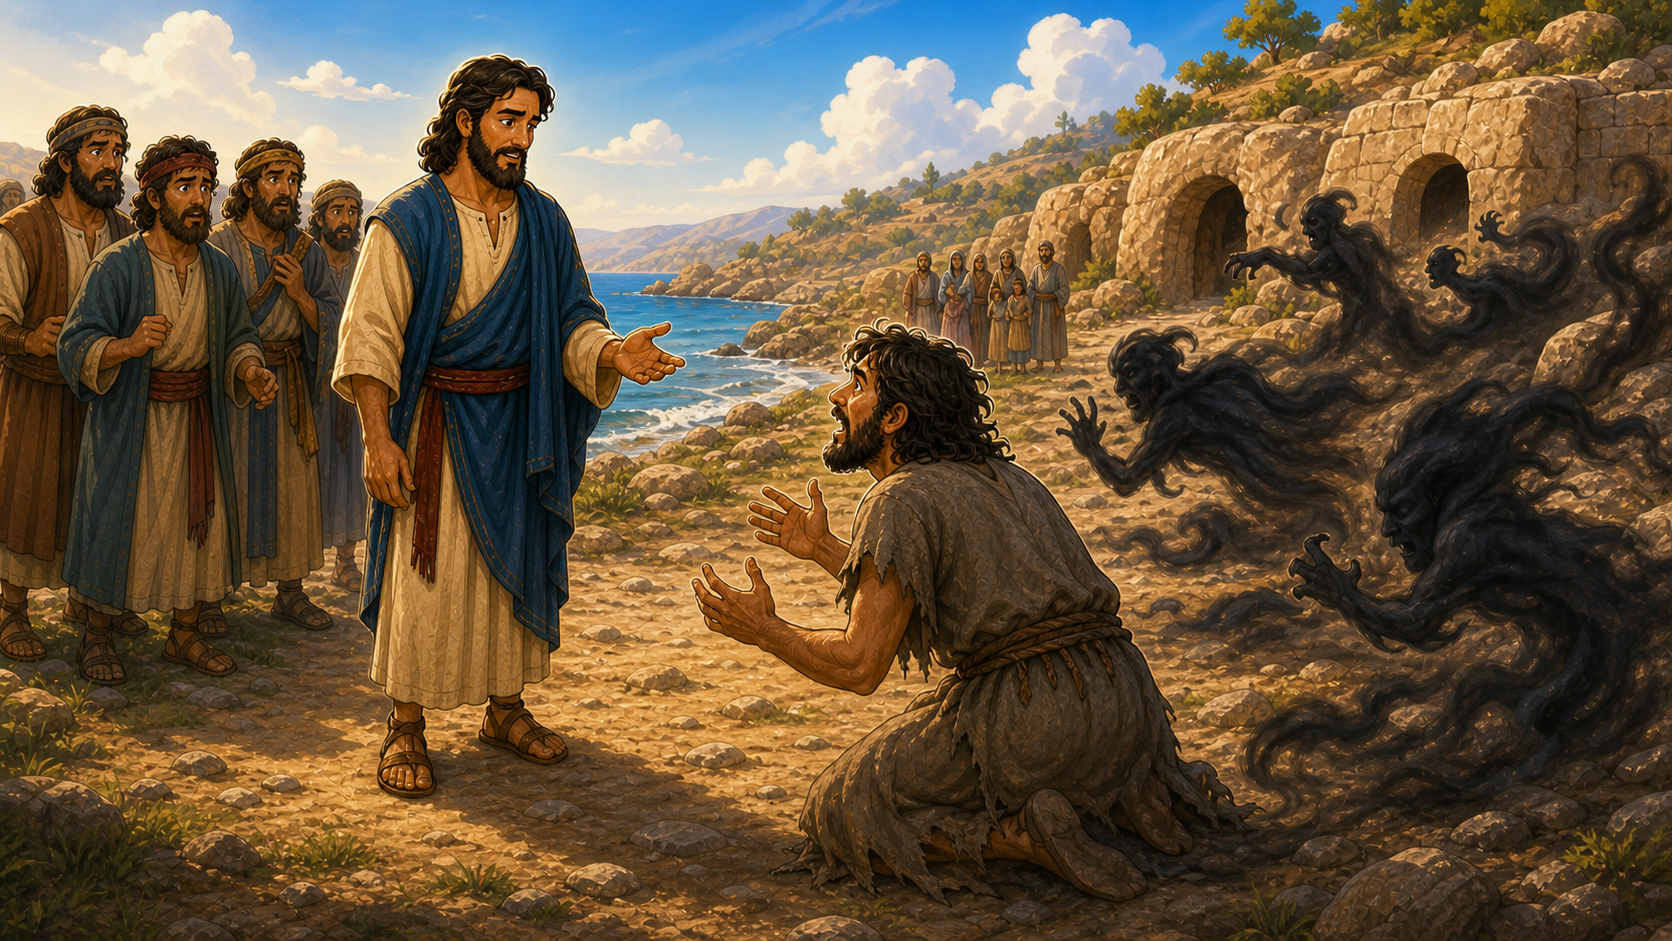
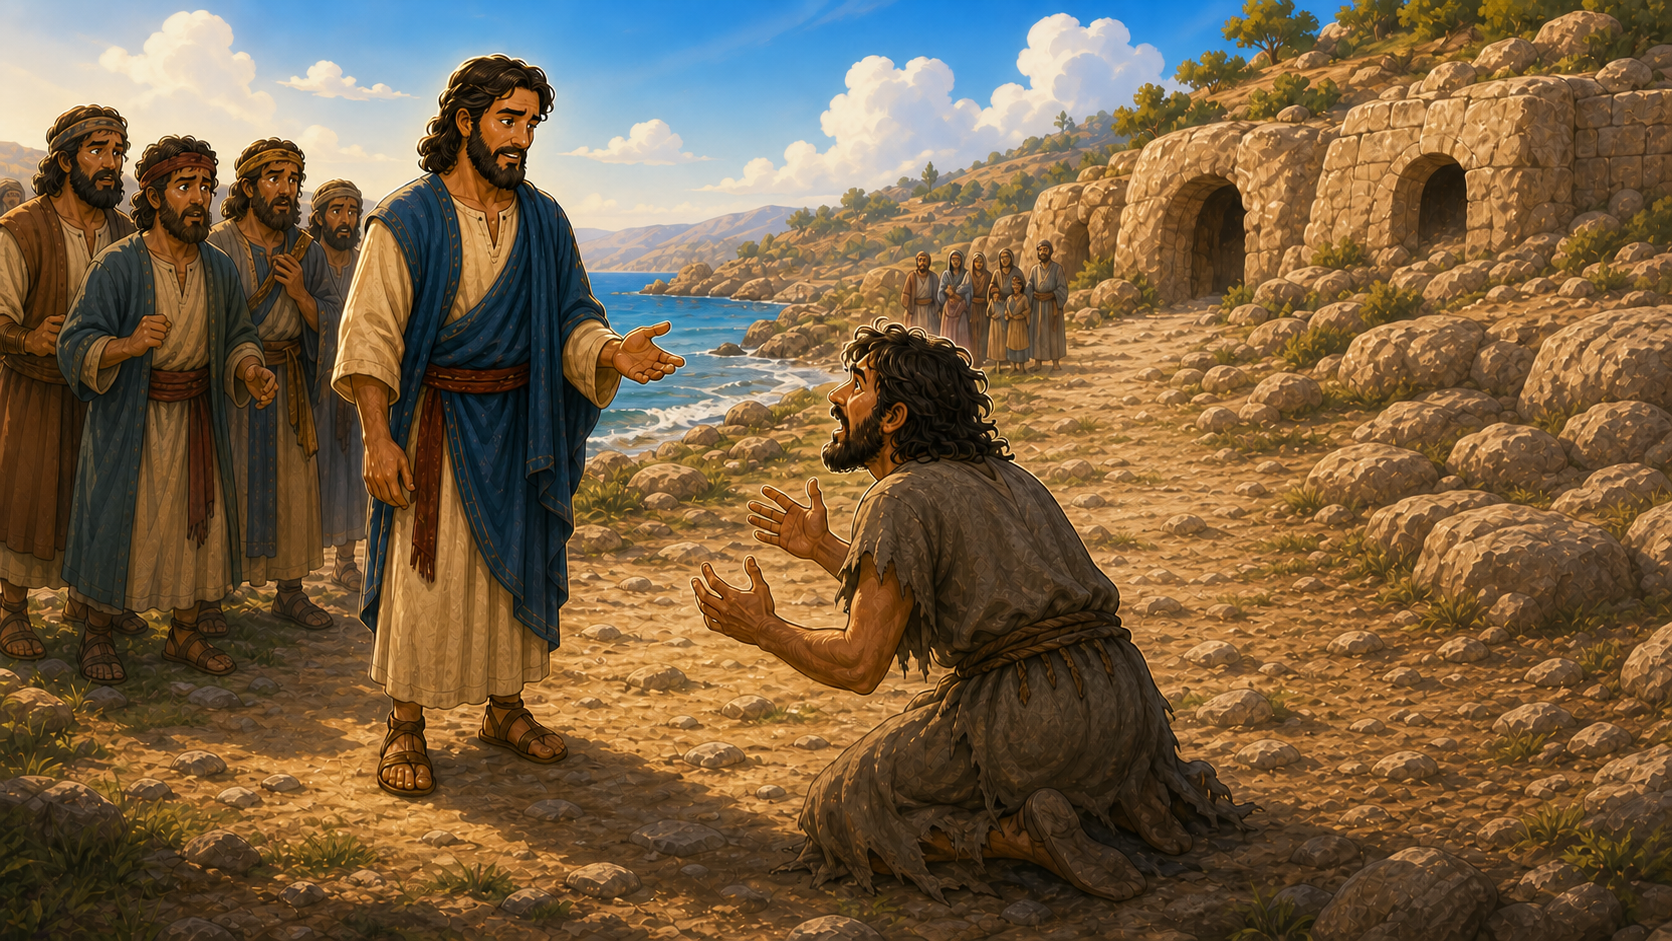
More updates to lesson

diff --git a/Series/Adventures in the Bible/03 The Maniac of Gadara/lesson-outline.md b/Series/Adventures in the Bible/03 The Maniac of Gadara/lesson-outline.md
@@ -1,13 +1,5 @@
 # From Tombs To Testimony
 
-## Lesson Brief
-
-- **Series:** Adventures in the Bible
-- **Subject/Theme:** Jesus has compassion and power to rescue and change a ruined life.
-- **Bible Focus:** Jesus meets the demon-possessed man of Gadara, delivers him, changes him, and sends him home to tell others what the Lord had done.
-- **Main Passage:** Mark 5:1-20; Luke 8:26-39; Matthew 8:28-34
-- **Main Point:** Jesus can save and change anyone, and a changed life should tell others what He has done.
-
 ## Memory Verse
 
 **Mark 5:19** - "Go home to thy friends, and tell them how great things the Lord hath done for thee, and hath had compassion on thee." This fits because Jesus sent the changed man to tell others about the Lord's mercy.
@@ -16,98 +8,95 @@
 
 **Quick Review From Last Week:** Last week we learned about Jael and Sisera. Sisera trusted in chariots and military strength, but God was greater than the enemy's power. Jael chose the LORD's side when a dangerous moment came to her own tent.
 
-Today's story also shows that God is greater than every enemy. This time the enemy is not a king with chariots. This time we see a man whose life had been destroyed by devils, and we see that Jesus is strong enough and compassionate enough to rescue him.
+Today's story also shows that Christ can rescue us from any condition. This time we see a man whose life had been destroyed by devils, and we see that Jesus is strong enough and compassionate enough to rescue him.
 
-### 1. Buildup: A Man No One Could Help
+### 1. A Man No One Could Help
 
-**Summary/Lesson:** Jesus and His disciples crossed the sea and came into the country of the Gadarenes. Imagine the disciples stepping out of the ship and looking around. This was not a clean, cheerful place where children were playing and families were laughing. Nearby were tombs, caves or places where dead bodies were buried. And out among those tombs lived a man everyone in that area knew about.
+> **Mark 5:1-5**
And they came over unto the other side of the sea, into the country of the Gadarenes. And when he was come out of the ship, immediately there met him out of the tombs a man with an unclean spirit, Who had his dwelling among the tombs; and no man could bind him, no, not with chains: Because that he had been often bound with fetters and chains, and the chains had been plucked asunder by him, and the fetters broken in pieces: neither could any man tame him. And always, night and day, he was in the mountains, and in the tombs, crying, and cutting himself with stones.
 
-Maybe the people in the city warned one another, "Do not go near the tombs." Maybe parents pulled their children close when they had to pass that way. This man did not live in a house anymore. He did not dress like other people. The Bible says he cried day and night and hurt himself with stones. If you walked near those tombs, you might hear him before you ever saw him.
+**Summary/Lesson:** Jesus and His disciples crossed the sea and came into a place called “the country of the Gadarenes”. Imagine the disciples stepping out of the ship and looking around. This was not a clean, cheerful place where children were playing and families were laughing. Nearby were tombs, caves or places where dead bodies were buried. And out among those tombs lived a man that everyone in that area knew about.
 
-The people had tried to stop him. They put chains and fetters on him, but he broke them. Strong men may have held the chains. Families may have watched from far away, hoping this time it would work. But every time, the chains failed. No one could tame him. No one could calm him. No one could make him safe. This is where the story builds: if chains could not hold him, people could not help him, and he could not help himself, what could possibly happen when Jesus stepped onto that shore?
+He could be heard all throughout town, screaming and yelling. He was known for attacking people as they walked by and drew fear in the heart of anyone who saw or heard him. 
 
-**Main Passage:** Mark 5:1-5; Luke 8:26-29; Matthew 8:28
+The people in the city warned one another, "Do not go near the tombs." Parents pulled their children close when they had to pass that way. This man did not live in a house. He did not dress like other people. The Bible says he cried day and night and cut himself with stones. If you walked near those tombs, you would hear a terrifying scream and see someone who barely even looked like a man.
 
-**Practical Application for Children:** This man was in a terrible place, but when Jesus came, he went to Jesus. Children can go to Jesus too. The man in the tombs needed Jesus, and so do we.
+The people had tried to stop him. They put chains and fetters on him, but he broke them. Strong men may have held the chains. Families may have watched from far away, hoping this time it would work. But every time, the he broke the chains. No one could tame him. No one could calm him. No one could make him safe. He was a menace to all the people in that area.
 
-When a child is hurting, sad, angry, scared, lonely, or confused, the first and best Person to run to is Jesus. You can talk to Jesus in prayer. You can tell Him exactly what is wrong. You can ask Him for help, comfort, wisdom, forgiveness, and strength to do right. Jesus does not push away hurting children. He cares about them.
+**Practical Application for Children:** There are many people in this world who are hurting. Many people like this man. Maybe someone hurt them, maybe they hurt themselves. It doesn’t really matter what happened to them, but they are mad and bitter and hateful and sad.
 
-### 2. Buildup: The Wrong Road Led Farther From God
+The world is full of people like this. What’s going to happen to them? Many of them will continue in their sad life. Some might die young. But when someone who loves them and cares for them comes along, it can change their life.
 
-**Summary/Lesson:** Now slow the story down and help the children wonder, "How did he get there?" The Bible does not tell us exactly how this man's trouble began, so we should not pretend we know. But we do know that people do not usually start life living in tombs, crying in the night, and frightening everyone around them.
+### 2. The Wrong Road Led Farther From God
 
-Maybe this man had once had a home. Maybe people once knew his name before they only knew him as the dangerous man near the tombs. Maybe he had been hurt by someone, and instead of bringing that hurt to God, he let it turn into anger and bitterness. Maybe he had been lonely, and instead of running to the Lord, he ran to wrong things and wrong choices. Maybe one wrong step led to another, and another, until his life was farther from God than he ever thought it would be.
+**Summary/Lesson:** How did this man get here? The Bible does not tell us exactly how this man's trouble began, but we do know that people do not usually start life living in tombs, crying in the night, and frightening everyone around them. He probably wasn't born there. 
 
-Whatever the beginning was, by the time Jesus met him, the man was miserable. Sin and the devil had not made him happy. They had not made him free. They had taken him away from his home, away from peace, away from the people who cared about him, and out among the tombs. This man did not need stronger chains. He needed Jesus. The children should feel the sadness and the danger here: everybody could see the problem, but nobody had the power to fix it.
+This man probably once had a home. Maybe people once knew his name and we're friends with him before they only knew him as the dangerous man near the tombs. Maybe he had been hurt by someone, and instead of bringing that hurt to God, he let it turn into anger and bitterness. Maybe he had been lonely, and instead of running to the Lord, he ran to wrong things and wrong choices. One wrong step led to another, and another, until his life was consumed by his sin and sadness. The Bible tells us that devils came to live inside of him. That's how bad it had become! 
 
-**Main Passage:** Mark 5:3-5; Luke 8:27, 29
+Whatever the beginning was, by the time Jesus met him, the man was miserable. Sin and Satan had not made him happy. They had not made him free. They had taken him away from his home, away from peace, away from the people who cared about him, and out to live in rocks and among the tombs. 
 
-**Supporting Scriptures:** Proverbs 14:12 warns that a way can seem right but end in death. 
+> **Proverbs 14:12**
There is a way which seemeth right unto a man, but the end thereof are the ways of death.
 
-**Practical Application for Children:** Children will have moments when they feel hurt, left out, embarrassed, angry, or lonely. Those feelings should push them toward God, not away from Him. Pray, tell the truth, ask for help, forgive when God tells you to forgive, and stay away from things that pull your heart farther from the Lord.
+**Practical Application for Children:** Children will have moments when they feel hurt, left out, embarrassed, angry, or lonely. Do not let those feelings push you towards sin and bad choices! When we allow hurt in our life to make us choose wrong things, it leads to destruction.
 
+### 3. Jesus Met Him With Compassion
 
-### 3. Climax: Jesus Met Him With Compassion
+> **Mark 5:6-9**
But when he saw Jesus afar off, he ran and worshipped him, And cried with a loud voice, and said, What have I to do with thee, Jesus, thou Son of the most high God? I adjure thee by God, that thou torment me not. For he said unto him, Come out of the man, thou unclean spirit. And he asked him, What is thy name? And he answered, saying, My name is Legion: for we are many.
 
-**Summary/Lesson:** Then comes the moment the children have been waiting for. Jesus steps onto the shore, and the man comes running out of the tombs. If the people from the city had seen him running, they probably would have backed away. They knew what this man was like. They had heard his cries. They had seen broken chains. They had seen what he could do.
+**Summary/Lesson:** This is how this man had lived for years and years: no relief, no happiness, no joy, no friends, just pain and misery. But then one day everything changed. Jesus steps onto the shore and looks into the man’s eyes. For the first time in his life, the man saw something that changed everything. He saw love, he saw compassion, and someone who wanted to help him.
+
+The man sprinted out of the tombs and ran toward Jesus. If the people from the city had seen him running, they probably would have backed away. They knew what this man was like. They had heard his cries. They had seen broken chains. They had seen what he could do. They probably thought he was going to attack Jesus. 
 
 But Jesus did not run away. Jesus did not look at the disciples and say, "Get back in the boat." Jesus did not treat this man like a problem to avoid. The man fell down before Jesus, and the devils inside him cried out, "Jesus, thou Son of the most high God." The devils knew they were not meeting an ordinary man. They were face to face with the Son of God.
 
-Now the story gets even more intense. The man had scared everyone else, but the devils inside the man were scared of Jesus. They cried, "I adjure thee by God, that thou torment me not." Luke says they begged Jesus that He would not command them to go out into the deep. Think about that: the people had been afraid of this man, but the devils were afraid of Christ. They were not arguing with Jesus like they were just as strong as Him. They were begging because they knew Jesus had authority over them.
+Thing were different here. For all his life, this man had scared everyone else, but now the devils inside him were scared of Jesus. They cried, "torment me not." The Bible says they begged Jesus that He would not command them to go out into the deep. Think about that: the people had been afraid of this man, but the devils were afraid of Christ. They were not arguing with Jesus like they were just as strong as Him. They were begging because they knew Jesus had authority over them.
 
-At this moment, the children should be wondering, "What is Jesus going to do?" The chains had failed. The people had failed. The man could not fix himself. Even the devils knew they could not win against Jesus. Everything in the story is pointing to one truth: the only hope for this man is the love, compassion, and power of Christ.
+The chains had failed. The people had failed. The man could not fix himself. Even the devils knew they could not win against Jesus. Everything in the story is pointing to one truth: the only hope for this man is the love, compassion, and power of Christ.
 
-This is where the story begins to turn. Everyone else had seen a dangerous man, a frightening man, a man who made the whole area uncomfortable. Jesus saw a person who needed compassion and deliverance. Jesus loved him, not because he was clean, useful, polite, or impressive, but because he was a person made by God and ruined by sin and Satan. The man everyone else could not help was now standing before the only One who could help him.
+Everyone else saw a dangerous and frightening man, a man who made the whole area scared. Jesus saw a person who needed love. Jesus loved him, not because he was clean, useful, polite, smart, strong, fast, or impressive, but because he was a person made by God and ruined by sin and Satan. The man everyone else could not help was now standing before the only One who could help him.
 
-**Main Passage:** Mark 5:6-9; Luke 8:28-30
+> **Luke 19:10**
For the Son of man is come to seek and to save that which was lost.
 
-**Supporting Scriptures:** Luke 19:10 says Jesus came to seek and to save that which was lost. Matthew 9:36 shows Jesus moved with compassion when He saw people scattered and helpless. John 6:37 says Jesus will not cast out the one who comes to Him. Romans 5:8 says Christ died for us while we were still sinners.
-
-**Practical Application for Children:** Jesus does not wait for people to clean themselves up before they come to Him. Children should never think, "Jesus would not care about me because I have sinned," or, "Jesus would not listen because my life is messy." Jesus is compassionate, and He is able to help.
+**Practical Application for Children:** Jesus does not wait for people to clean themselves up before they come to Him. Children should never think, "Jesus would not care about me because I have sinned," or, "Jesus would not listen because my life is messy." Jesus is compassionate, and He is able to help. He wants you to come to Him no matter how hurt or dirty you are.
 
 **Illustration:** If a child falls into the mud and gets hurt, a loving parent does not say, "Get clean first, then I will help you." The parent runs to help because the child needs help. Jesus came to rescue sinners who could not rescue themselves.
 
-### 4. Climax: Jesus Cast Out The Devils
+### 4. Jesus Cast Out The Devils
+
+> **Mark 5:9-13**
And he asked him, What is thy name? And he answered, saying, My name is Legion: for we are many. And he besought him much that he would not send them away out of the country. Now there was there nigh unto the mountains a great herd of swine feeding. And all the devils besought him, saying, Send us into the swine, that we may enter into them. And forthwith Jesus gave them leave. And the unclean spirits went out, and entered into the swine: and the herd ran violently down a steep place into the sea, (they were about two thousand;) and were choked in the sea.
 
 **Summary/Lesson:** Jesus asked, "What is thy name?" The answer was, "My name is Legion: for we are many." The devils begged Jesus not to send them away into the deep. They asked to enter a herd of swine, and Jesus gave them leave. When the devils entered the swine, the herd ran violently down a steep place into the sea and drowned.
 
-This part of the story shows that the devils were real, cruel, and destructive. But it also shows something much greater: they were under Jesus' authority. The man could not free himself. The people could not free him with chains. But Jesus spoke, and the devils had to obey. Jesus is stronger than Satan, stronger than sin, and stronger than the darkness that destroys lives.
+The man could not free himself. The people could not free him with chains. But Jesus spoke, and the devils had to obey. Jesus is stronger than Satan, stronger than sin, and stronger than the darkness that destroys lives.
 
-**Main Passage:** Mark 5:9-13; Luke 8:30-33; Matthew 8:31-32
+> **Colossians 1:13-14**
Who hath delivered us from the power of darkness, and hath translated us into the kingdom of his dear Son: In whom we have redemption through his blood, even the forgiveness of sins:
 
-**Supporting Scriptures:** Colossians 1:13-14 says God delivers people from the power of darkness through Christ. Hebrews 2:14-15 teaches that Jesus came to destroy the power of the devil and deliver those in bondage. 1 John 3:8 says the Son of God was manifested to destroy the works of the devil. James 4:7 tells us to resist the devil.
-
-**Practical Application for Children:** Children should not play with darkness, occult things, rebellion, or sin as if they are harmless. The devil wants to destroy. But children also do not need to live terrified of Satan. Jesus is greater. The right response is to trust Jesus, obey God's Word, and stay close to the Lord.
+**Practical Application for Children:** The devil wants to destroy but you do not need to live terrified of Satan. Jesus is greater. The right response is to trust Jesus, obey God's Word, and stay close to the Lord.
 
 **Illustration:** In a game, a player may be loud or fast, but when the referee blows the whistle with authority, the play stops. Authority matters. The devils were frightening, but Jesus had authority over them.
 
 ### 5. Resolution: Everyone Saw A Changed Life
 
+> **Mark 5:14-17**
And they that fed the swine fled, and told it in the city, and in the country. And they went out to see what it was that was done. And they come to Jesus, and see him that was possessed with the devil, and had the legion, sitting, and clothed, and in his right mind: and they were afraid. And they that saw it told them how it befell to him that was possessed with the devil, and also concerning the swine. And they began to pray him to depart out of their coasts.
+
 **Summary/Lesson:** The people from the city came out to see what had happened. They found the man who had been possessed with the devil "sitting, and clothed, and in his right mind." Before, he had been wild, lonely, unclothed, crying, and hurting himself. Now he was sitting calmly. He was dressed. He was thinking clearly. He was near Jesus.
 
-Jesus did not just make a small improvement. Jesus changed the man's life. A changed heart showed up in a changed outside. He cleaned himself up, dressed differently, acted differently, and had a different spirit about him. Those changes did not save him, but they showed that Jesus had done a real work in him.
+Jesus did not just make a small improvement. Jesus changed not just the man's life, but the entire region now. The man cleaned himself up, dressed differently, acted differently, and had a different spirit about him. Those changes did not save him, but they showed that Jesus had done a real work in him.
 
-**Main Passage:** Mark 5:14-17; Luke 8:34-37
-
-**Supporting Scriptures:** 2 Corinthians 5:17 says the person in Christ is a new creature. Ephesians 4:22-24 teaches that believers should put off the old man and put on the new man. Galatians 5:22-23 describes the fruit of the Spirit. Titus 3:5 reminds us that salvation is by God's mercy, not by our works.
+> **2 Corinthians 5:17**
Therefore if any man be in Christ, he is a new creature: old things are passed away; behold, all things are become new.
 
 **Practical Application for Children:** When Jesus saves and changes a person, there should be a difference. A saved child will still need to grow, confess sin, and learn obedience, but Jesus changes attitudes, words, friendships, habits, and desires. We are not saved by acting better, but a saved person should want to live differently for the Lord.
 
-**Illustration:** Show a dirty cup or container and then a clean one. The outside difference matters, but the real issue is whether the inside has been cleaned. Jesus changes the heart first, and that change begins to show on the outside.
-
 ### 6. Resolution: Jesus Sent Him Home To Tell
+
+> **Mark 5:18-20**
And when he was come into the ship, he that had been possessed with the devil prayed him that he might be with him. Howbeit Jesus suffered him not, but saith unto him, Go home to thy friends, and tell them how great things the Lord hath done for thee, and hath had compassion on thee. And he departed, and began to publish in Decapolis how great things Jesus had done for him: and all men did marvel.
 
 **Summary/Lesson:** After Jesus changed the man, the man wanted to go with Jesus. That was a good desire. He wanted to stay close to the One who had rescued him. But Jesus gave him a mission: "Go home to thy friends, and tell them how great things the Lord hath done for thee, and hath had compassion on thee."
 
-The man obeyed. He went through Decapolis and published what great things Jesus had done for him. The people who once knew him as the man in the tombs could now hear him tell about Jesus. His life became a testimony. The same mouth that once cried in misery now spoke about the mercy of the Lord.
-
-**Main Passage:** Mark 5:18-20; Luke 8:38-39
-
-**Supporting Scriptures:** Psalm 107:2 says, "Let the redeemed of the LORD say so." Acts 1:8 teaches that God's people are to be witnesses. 1 Peter 3:15 tells believers to be ready to give an answer for their hope. John 4:28-29 shows another changed person going to tell others about Jesus.
+The man obeyed. He went through Decapolis and told everyone what great things Jesus had done for him. The people who once knew him as the man in the tombs could now hear him tell about Jesus. His life became a testimony. The same mouth that once cried in misery now spoke about the mercy of the Lord.
 
 **Practical Application for Children:** Children can tell others what Jesus has done. They can tell a friend Jesus saves. They can invite someone to church. They can say, "Jesus helped me obey," or, "Jesus forgave my sin." A testimony does not have to be fancy. It should be honest and point people to the Lord.
 
-**Illustration:** If a child is lost in a store and someone helps him find his parents, he will tell the story when he gets home. "I was lost, but someone helped me." The changed man could say something greater: "I was ruined, but Jesus had compassion on me."
+**Illustration:** When someone does something great for you, you like to tell others about them
 
 ## Segue Into The Plan Of Salvation
 
@@ -127,34 +116,31 @@ The changed man was told to tell what great things the Lord had done for him. Th
 - When Jesus saves and changes someone, that change should show in the way they live.
 - Tell others what the Lord has done for you.
 
-## Teacher Notes
-
-- Keep the difficult details age-appropriate. Mention that the man hurt himself, but do not dwell on graphic description.
-- Be clear that the Bible does not tell us the man's full backstory. Any discussion of sadness, hurt, anger, or wrong choices should be framed as possible application, not as stated Bible fact.
-- Preserve the story movement: points 1-2 are the buildup, points 3-4 are the climax, and points 5-6 are the resolution.
-- Emphasize that cleaner clothes and better behavior did not save the man. Jesus changed him first, and then the outward difference followed.
-- This lesson gives a natural opportunity to teach children to seek help from God and from safe adults when they are hurting or afraid.
-
 ## Review Questions
 
 1. Easy: Where was the man living when Jesus met him?
 2. Easy: What had people tried to use to bind the man?
-3. Easy: Could the people tame or fix this man?
+3. Easy: Could the people tame, calm, or fix this man?
 4. Easy: Who came to the country of the Gadarenes?
-5. Easy: What did the devils call Jesus?
+5. Easy: Who did the man need more than stronger chains?
 6. Medium: Why should we be careful not to invent a full backstory for this man?
-7. Medium: What are some wrong places people run when they are hurt or angry?
-8. Medium: What should a child do when he is sad, angry, scared, or being hurt?
-9. Medium: Why did Jesus care about this man?
-10. Medium: What name did the devils give when Jesus asked, "What is thy name?"
-11. Medium: What happened when the devils entered the swine?
-12. Medium: What did the people see when they came and found the man after Jesus changed him?
-13. Medium: What three words describe the changed man in Mark 5:15?
-14. Medium: Did cleaner clothes save the man, or did they show that Jesus had changed him?
-15. Medium: What did the changed man want to do after Jesus helped him?
-16. Medium: Where did Jesus tell the man to go?
-17. Medium: What did Jesus tell the man to tell his friends?
-18. Hard: How does this story show that Satan wants to destroy?
-19. Hard: How does this story show that Jesus is stronger than the devil?
-20. Hard: How can a changed life become a testimony to others?
-21. Hard: Why does every person need Jesus to save them from sin?
+7. Medium: What are some wrong places people may run when they are hurt, angry, or lonely?
+8. Medium: Who should children run to first and best when they are hurting, sad, scared, or confused?
+9. Medium: What can children do when they go to Jesus with a hurting heart?
+10. Medium: What did Jesus do when the man came running from the tombs?
+11. Medium: What did the devils call Jesus?
+12. Medium: What did the devils beg Jesus not to do?
+13. Medium: Why were the devils afraid of Jesus?
+14. Medium: What name did the devils give when Jesus asked, "What is thy name?"
+15. Medium: What did the devils ask Jesus to let them enter?
+16. Medium: What happened to the herd of swine?
+17. Medium: What did the people see when they came and found the man after Jesus changed him?
+18. Medium: What three words describe the changed man in Mark 5:15?
+19. Medium: Did cleaner clothes and better behavior save the man, or did they show that Jesus had changed him?
+20. Medium: What did the changed man want to do after Jesus helped him?
+21. Medium: Where did Jesus tell the man to go?
+22. Medium: What did Jesus tell the man to tell his friends?
+23. Hard: How does this story show that sin and the devil destroy instead of help?
+24. Hard: How does this story show both the compassion and the power of Jesus?
+25. Hard: How can a changed life become a testimony to others?
+26. Hard: Why does every person need Jesus to save them from sin?